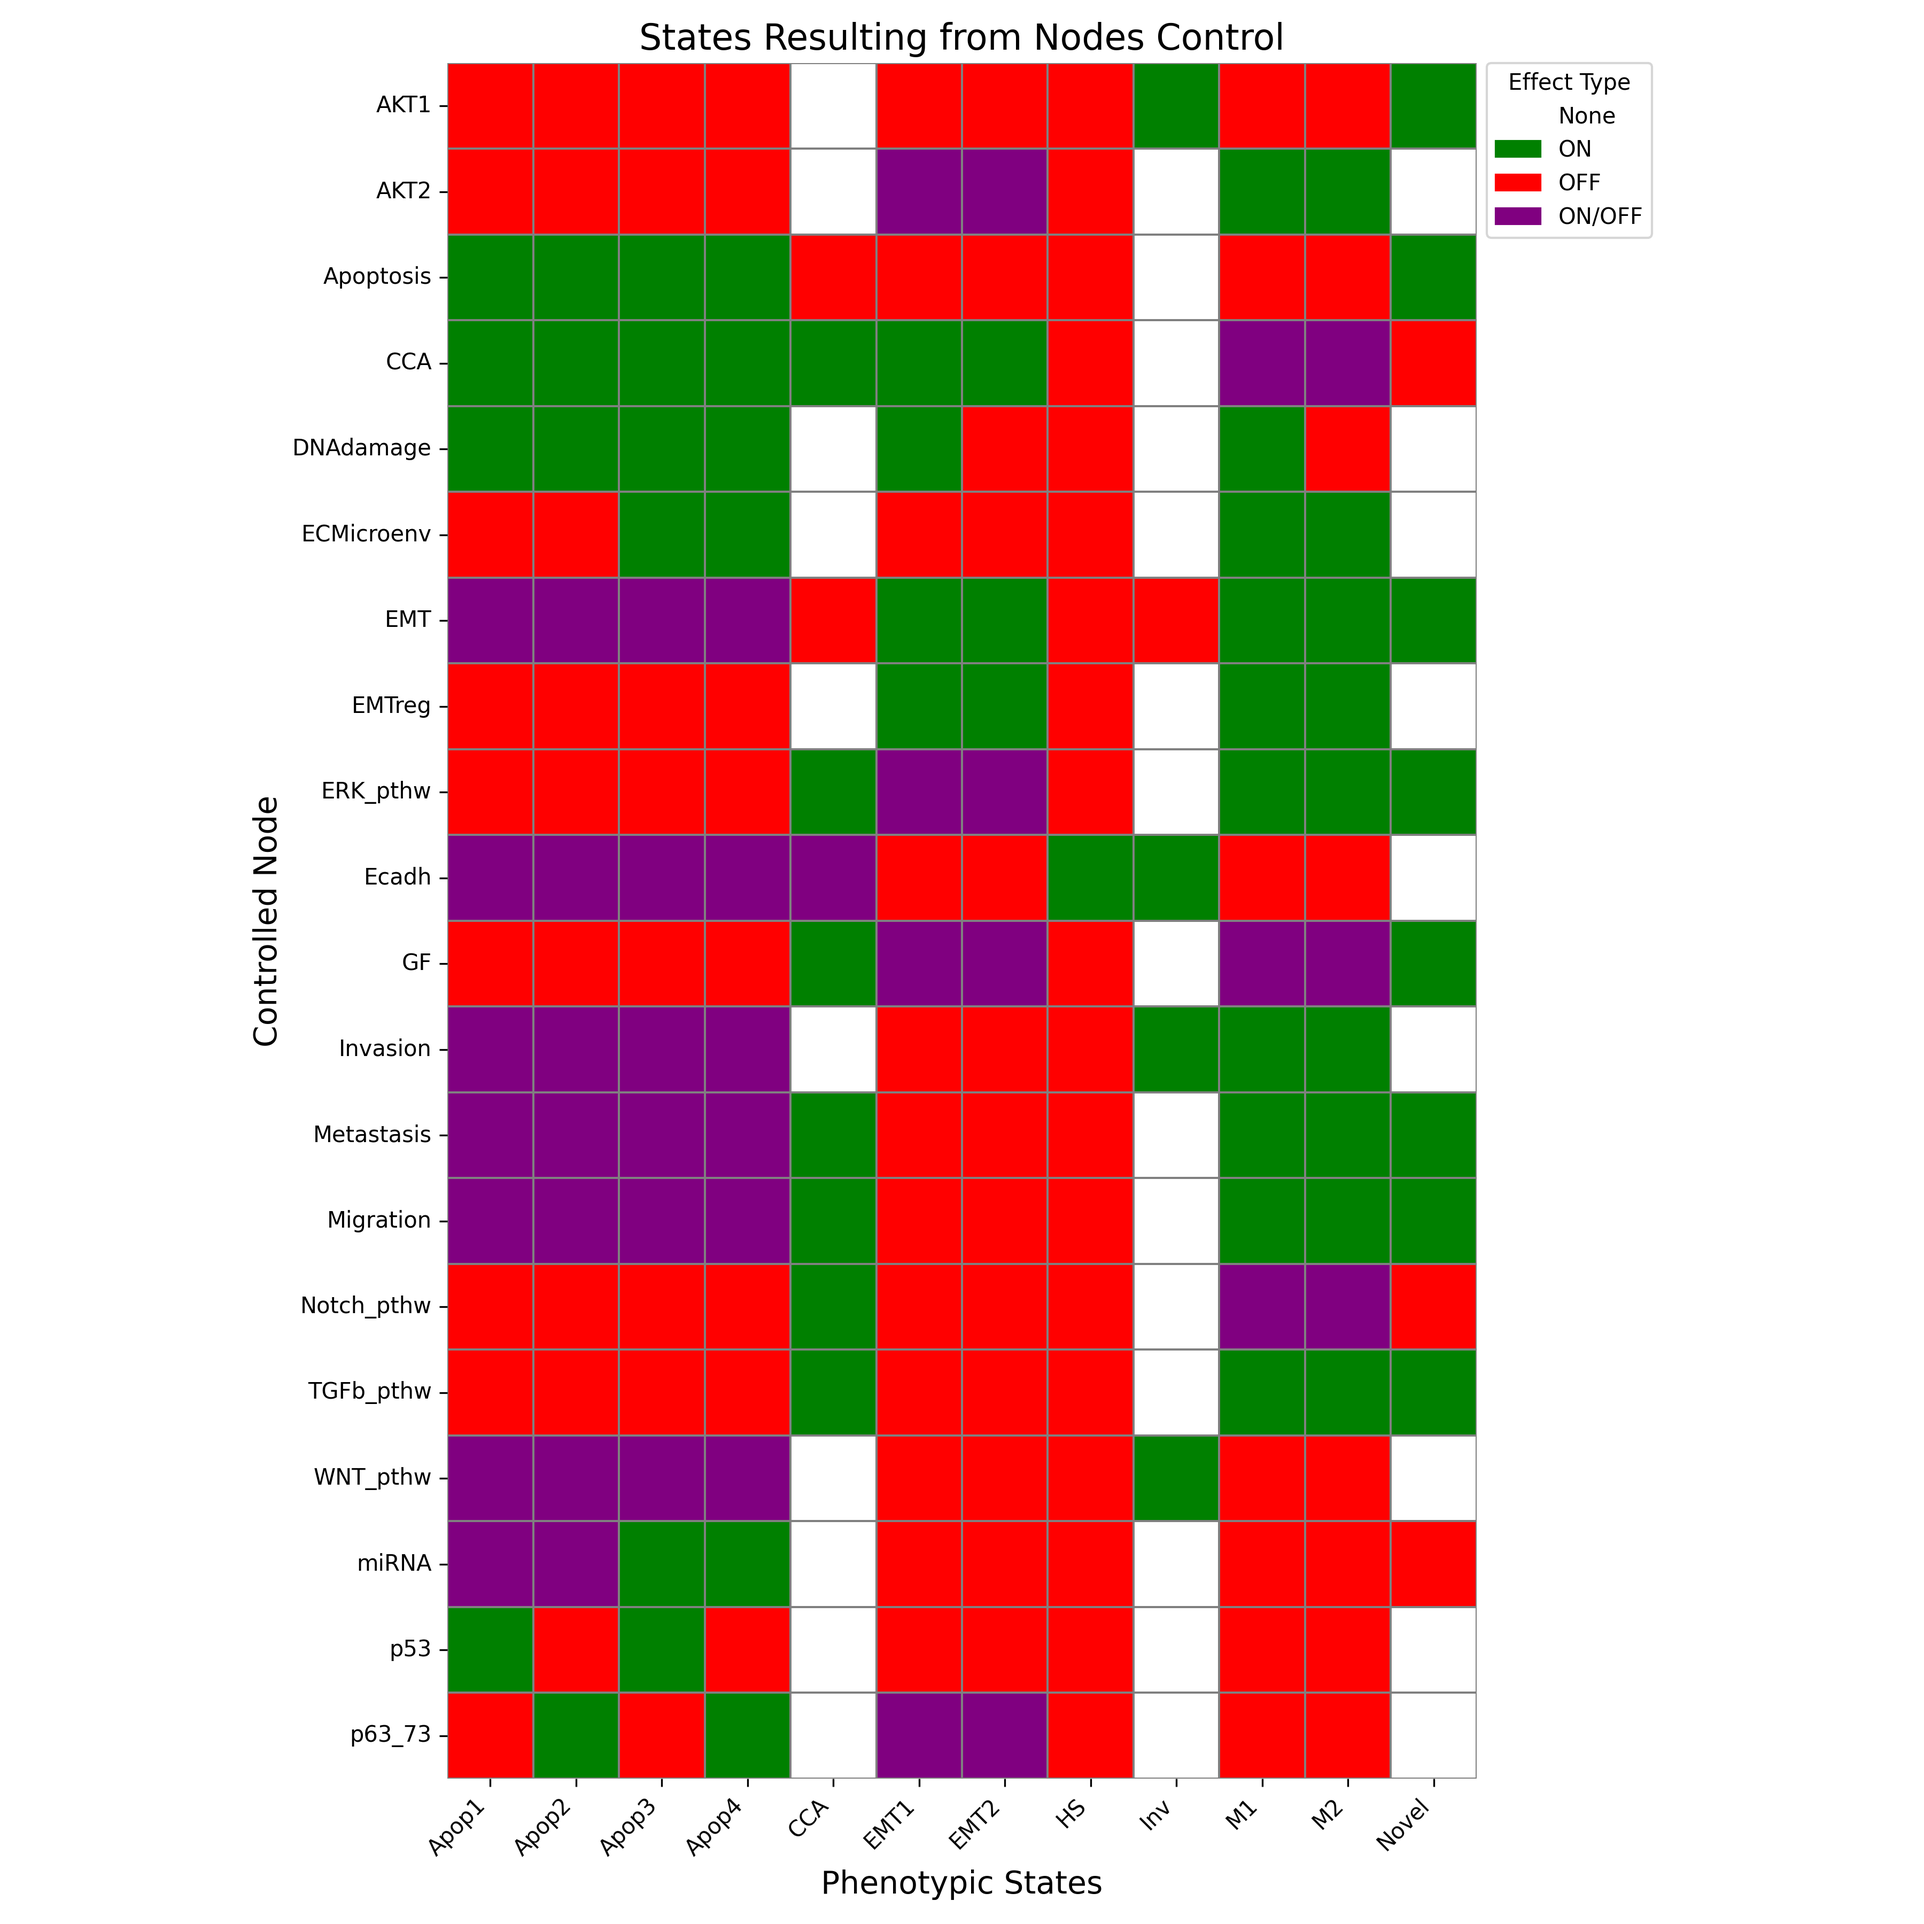
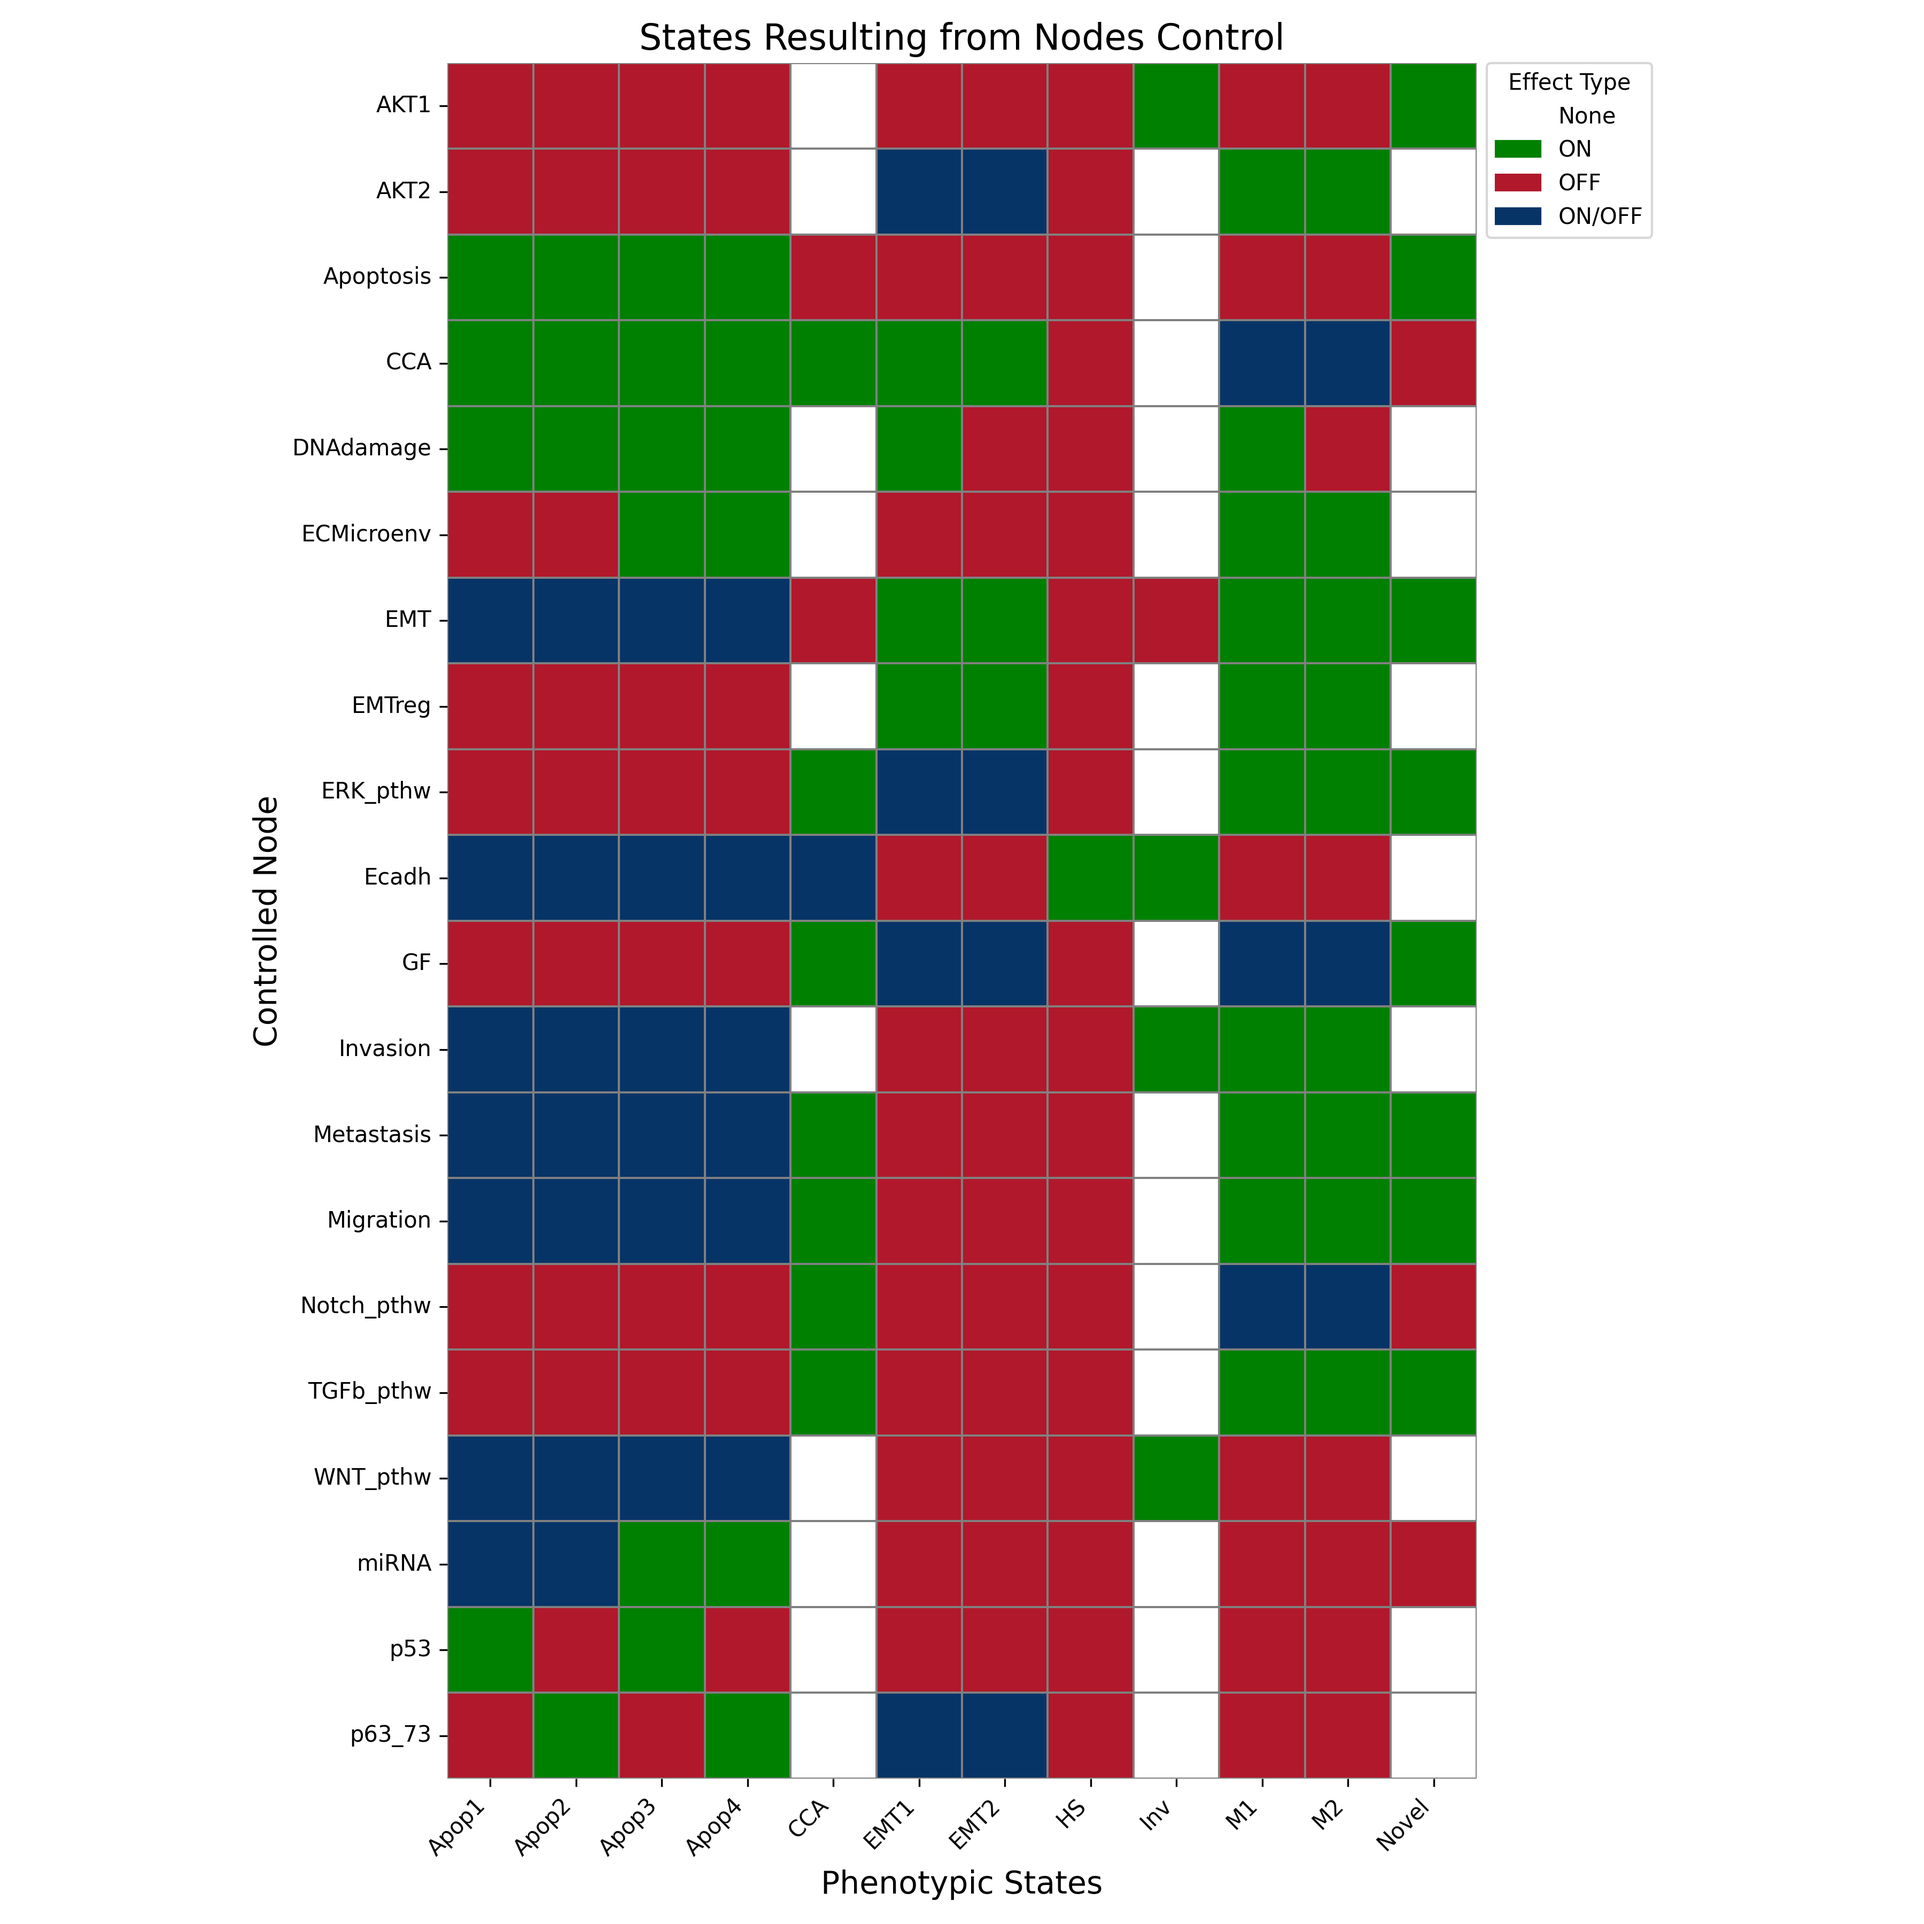
--updated plots

diff --git a/utils.py b/utils.py
@@ -256,7 +256,10 @@ def plot_controllability_results(file):
 
     df_combined = pd.DataFrame(control_matrix, index=control_nodes, columns=all_states)
 
-    colors = ['white', 'green', 'red', 'purple']  # None, ON, OFF, Both
+    blue = plt.cm.RdBu_r(0.01)
+    red = plt.cm.RdBu_r(0.9)   
+
+    colors = ['white', 'green', red, blue]  # None, ON, OFF, Both
     cmap = ListedColormap(colors)
 
     plt.figure(figsize=(12, 12))
@@ -266,8 +269,8 @@ def plot_controllability_results(file):
     legend_patches = [
         mpatches.Patch(color='white', label='None'),
         mpatches.Patch(color='green', label='ON'),
-        mpatches.Patch(color='red', label='OFF'),
-        mpatches.Patch(color='purple', label='ON/OFF')
+        mpatches.Patch(color=red, label='OFF'),
+        mpatches.Patch(color=blue, label='ON/OFF')
     ]
     plt.legend(handles=legend_patches, title="Effect Type",
             bbox_to_anchor=(1.01, 1), loc='upper left', borderaxespad=0.)
